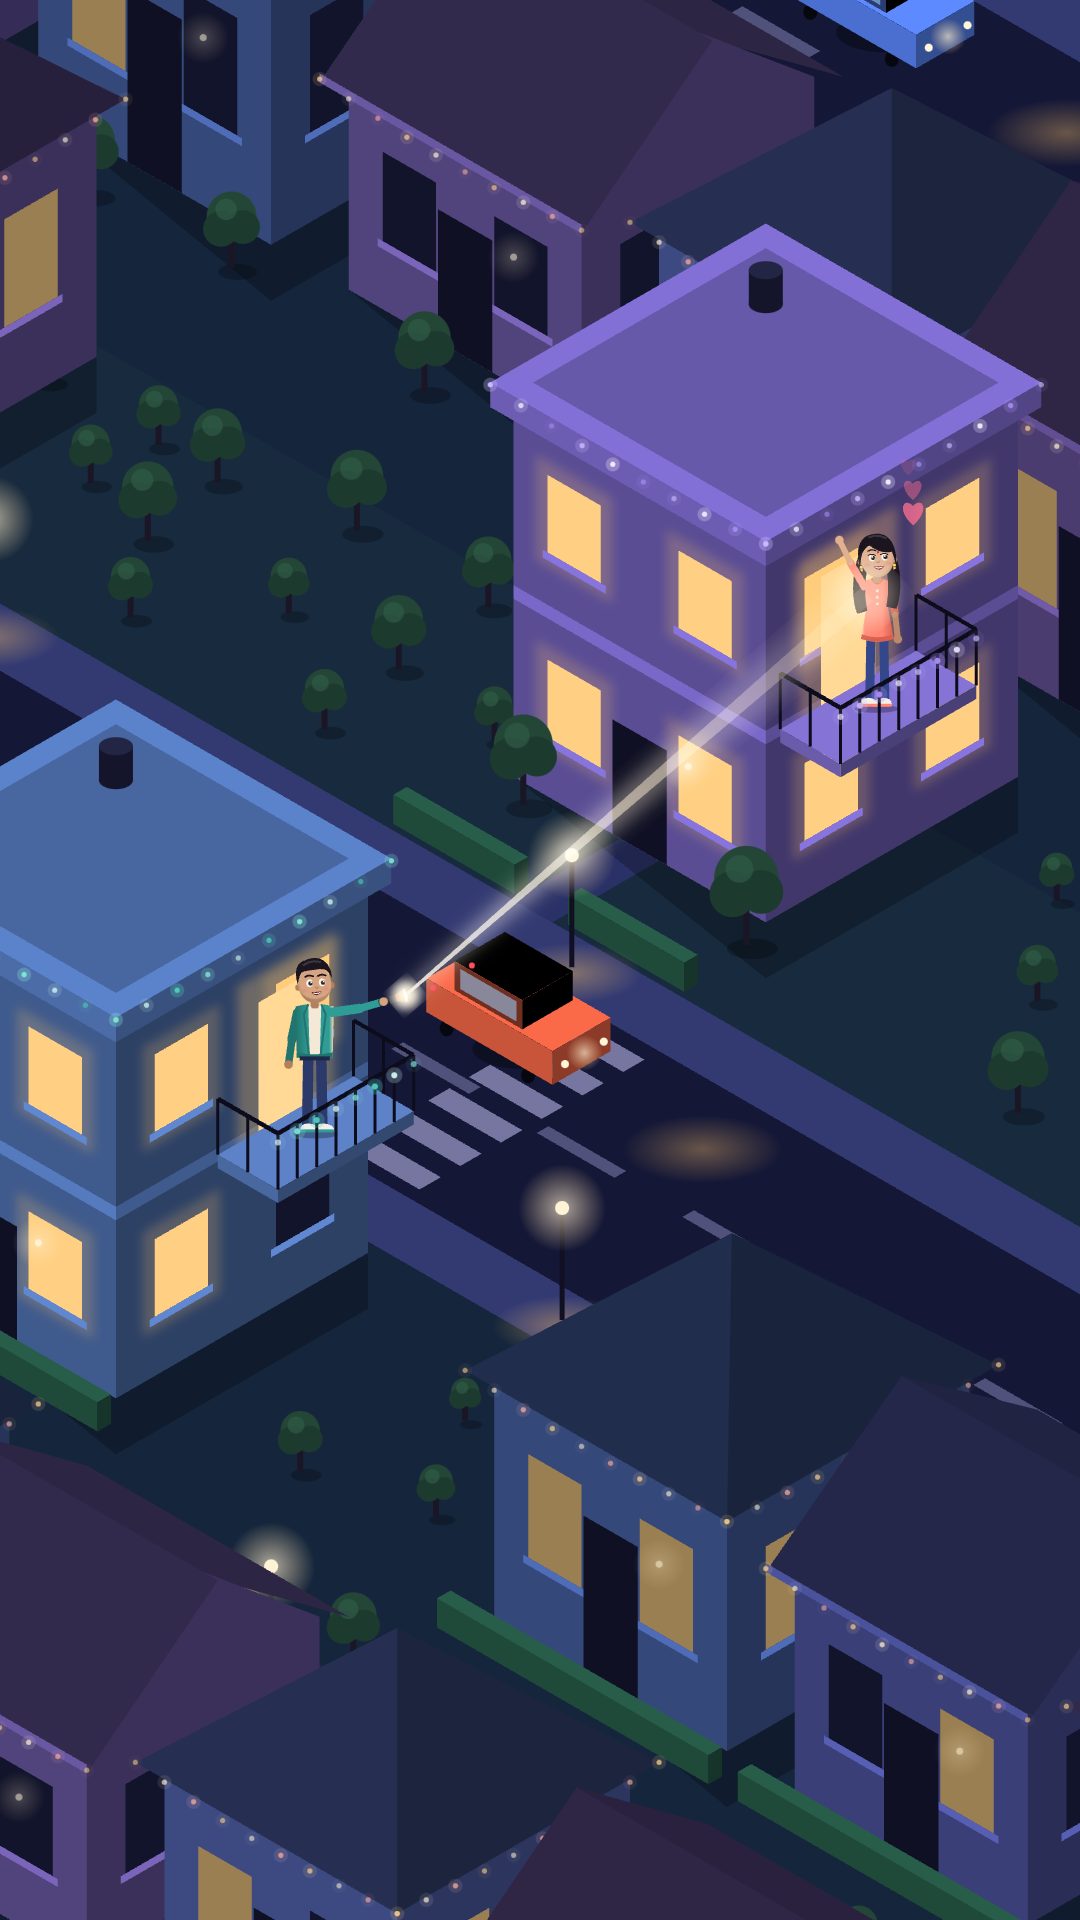
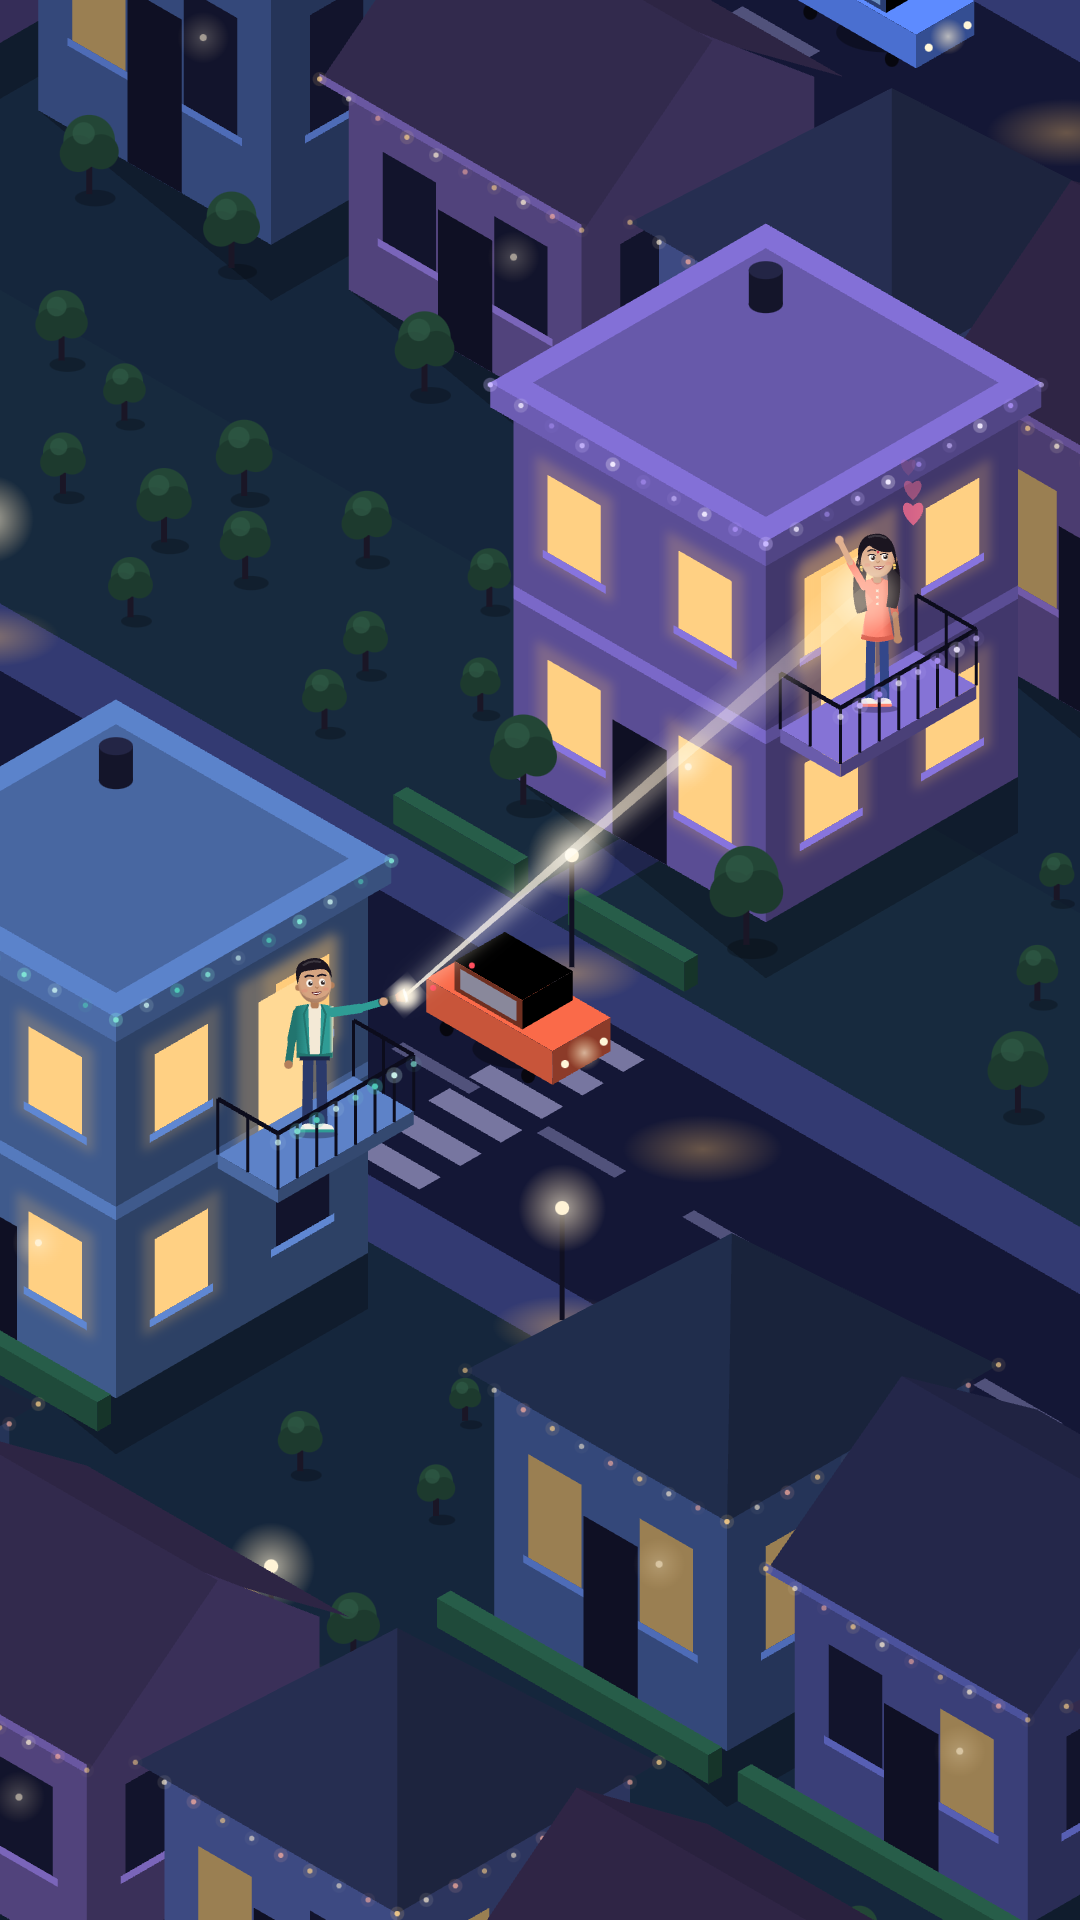
Internet short: corner house removed, park extended to the left edge
Claude-Session: https://claude.ai/code/session_01GXcKc3rwQcfrK3291f8HAB

diff --git a/internet/v3/src/dusk/IsoStreet.tsx b/internet/v3/src/dusk/IsoStreet.tsx
@@ -115,8 +115,6 @@ const Road: React.FC<{ y: number; x0: number; x1: number }> = ({ y, x0, x1 }) =>
 
 const C1 = ['#3a3f78', '#4a3f7a', '#34487a', '#51437c', '#3d4a82', '#4b3c70'];
 const FAR: H[] = [
-  { x0: -15.6, y0: -4.6, w: 2.4, d: 2.5, h: 2.0, c: C1[5], roof: 'gable', seed: 31 },
-  { x0: -12.5, y0: -4.6, w: 2.4, d: 2.5, h: 2.3, c: C1[3], roof: 'hip', seed: 32 },
   { x0: -4.2, y0: -5.6, w: 2.6, d: 2.6, h: 3.3, c: '#5a4d94', roof: 'flat', hero: 'girl', seed: 3 },
   { x0: 3.2, y0: -4.6, w: 2.4, d: 2.5, h: 2.0, c: C1[3], roof: 'gable', seed: 4 },
   { x0: 6.3, y0: -4.6, w: 2.4, d: 2.5, h: 2.3, c: C1[4], roof: 'hip', seed: 22 },
@@ -192,10 +190,10 @@ export const IsoStreet: React.FC = () => {
         {[-19, -15.8, -12.6, -9.4, -6.2, -3.0, 0.2, 3.4, 6.6, 9.8, 13].map((x, i) => <HouseIso key={'bk' + i} b={{ x0: x, y0: -8.9, w: 2.4, d: 2.4, h: 1.9 + (i % 3) * 0.3, c: C1[i % 6], roof: i % 2 ? 'gable' : 'hip', seed: 40 + i }} f={f} />)}
         {Array.from({ length: 14 }).map((_, i) => <TreeIso key={'t0' + i} x={-12 + i * 1.75 + hash(i) * 0.5} y={-5.7 - hash(i + 3) * 0.5} s={0.6 + hash(i + 7) * 0.35} />)}
         {/* far row with hedges along the footpath */}
-        {Array.from({ length: 14 }).map((_, i) => <TreeIso key={'pk' + i} x={-11.6 + (i % 7) * 1.08 + hash(i + 70) * 0.5} y={-4.4 + Math.floor(i / 7) * 0.95 + hash(i + 80) * 0.3} s={0.6 + hash(i + 90) * 0.35} />)}
+        {Array.from({ length: 22 }).map((_, i) => <TreeIso key={'pk' + i} x={-16 + (i % 11) * 1.08 + hash(i + 70) * 0.5} y={-4.4 + Math.floor(i / 11) * 0.95 + hash(i + 80) * 0.3} s={0.6 + hash(i + 90) * 0.35} />)}
         {FAR.map((b) => <HouseIso key={b.seed} b={b} f={f} />)}
         {FAR.map((b, i) => <g key={'hg' + i}><Box x0={b.x0 - 0.2} y0={-2.1} w={b.w / 2 - 0.05} d={0.14} h={0.26} c="#1f4a3a" /><Box x0={b.x0 + b.w / 2 + 0.3} y0={-2.1} w={b.w / 2 - 0.1} d={0.14} h={0.26} c="#1f4a3a" /></g>)}
-        {[-11.5, -9.6, -7.6, -5.6, 2.85, 5.95, 9.0].map((x, i) => <TreeIso key={i} x={x} y={-2.45} s={0.7} />)}
+        {[-15.4, -13.4, -11.5, -9.6, -7.6, -5.6, 2.85, 5.95, 9.0].map((x, i) => <TreeIso key={i} x={x} y={-2.45} s={0.7} />)}
         {balBack(GYC, '#6a5cab', GBX)}
         <g transform={`translate(${gx} ${gy}) scale(${-SC} ${SC})`}><Adult kind="woman" p={girl} id="g" /></g>
         {balFront(GYC, ['#c9b8ff', '#f0e9ff', '#a58cf0'], GBX)}
